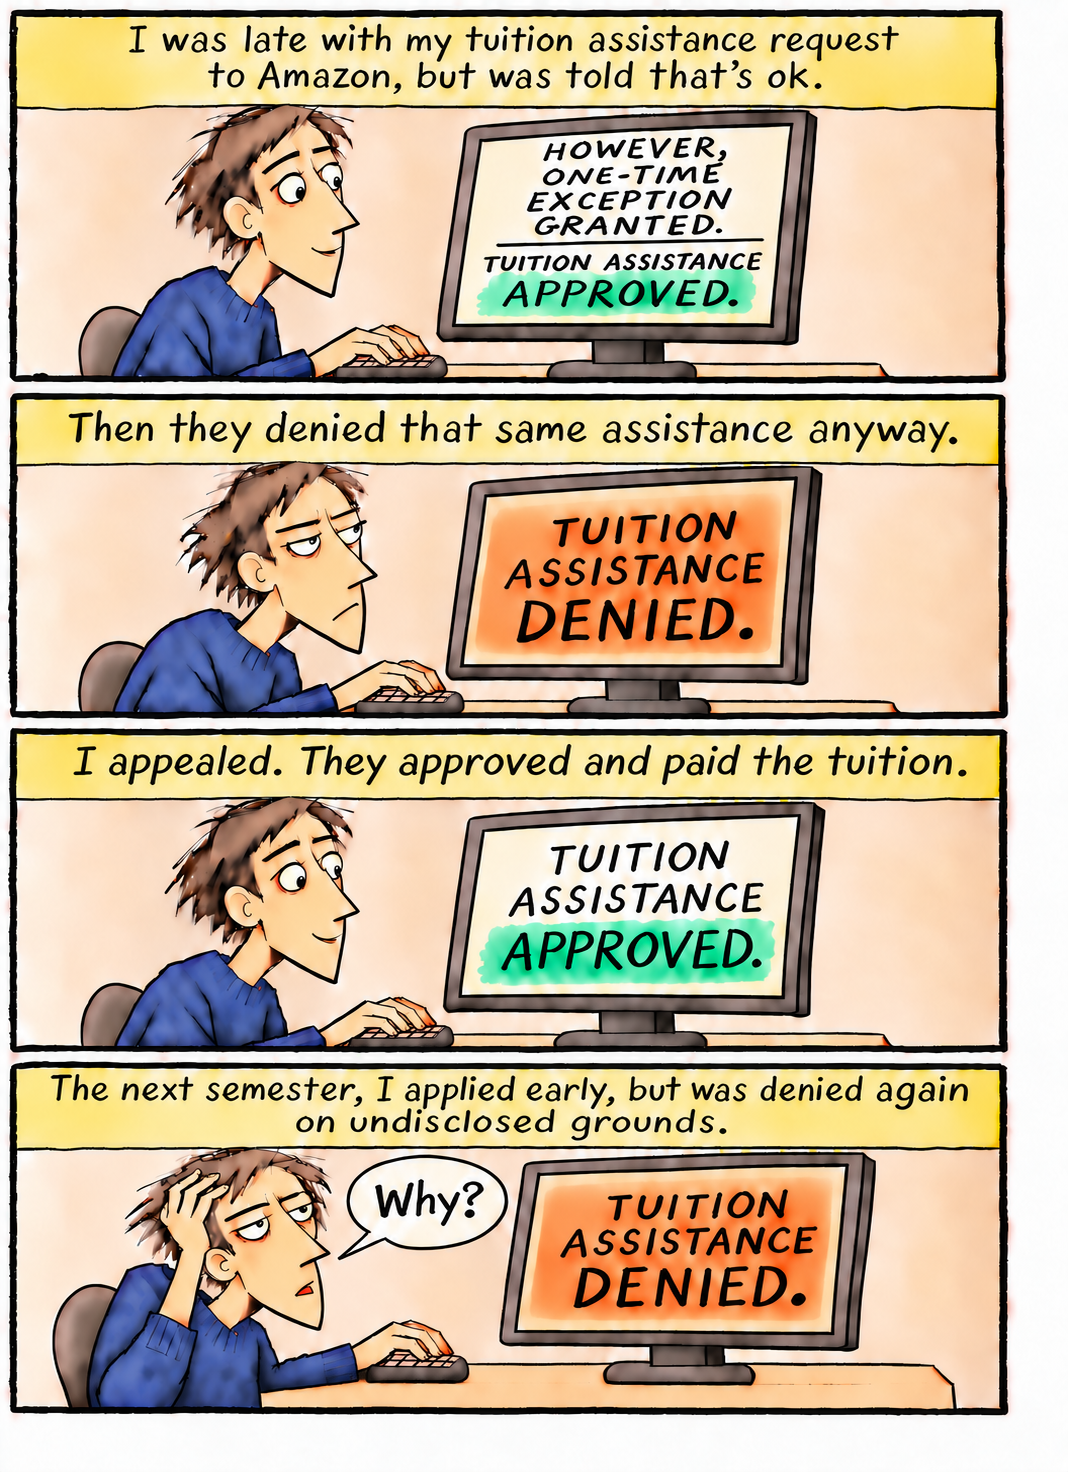
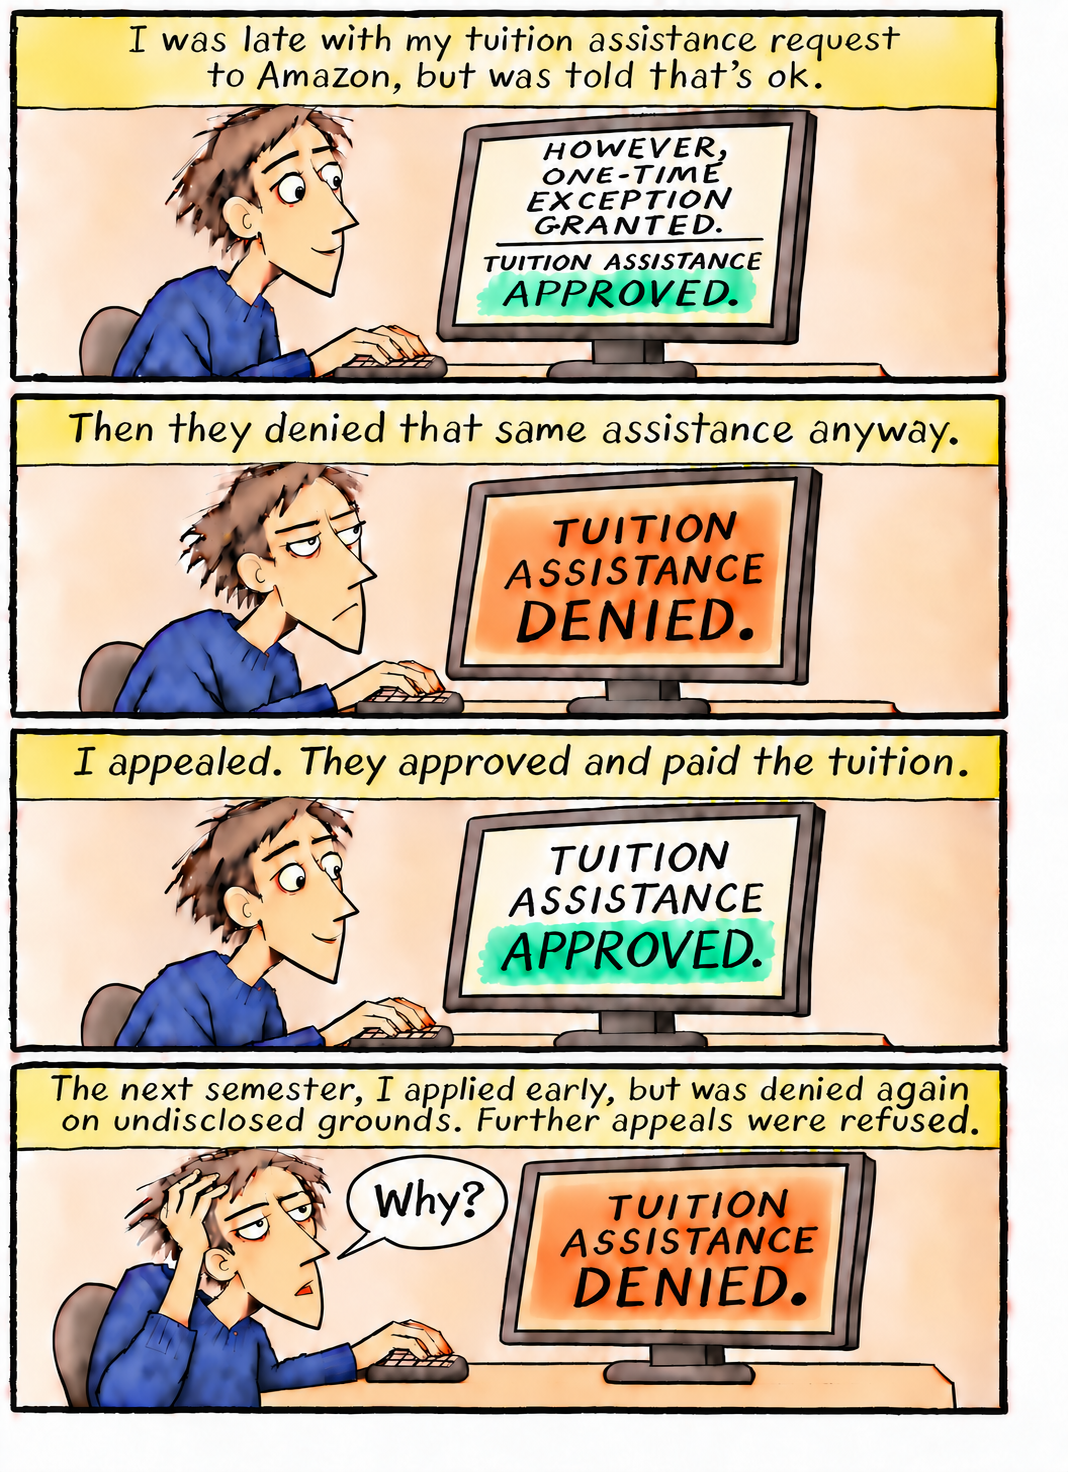
Update Amazon tuition comic appeal text

diff --git a/comics/amazon-tuition-assistance/index.html b/comics/amazon-tuition-assistance/index.html
@@ -10,7 +10,7 @@
     <meta property="og:site_name" content="Stealing Art Jobs" />
     <meta property="og:title" content="Someone entrusted with a position of authority at Amazon made this decision — Stealing Art Jobs" />
     <meta property="og:description" content="A four-panel comic about a hardworking Amazon warehouse employee whose tuition assistance is repeatedly approved and denied while he tries to become a nurse in Georgia." />
-    <meta property="og:image" content="https://stealingartjobs.com/comics/amazon-tuition-assistance.png?v=3" />
+    <meta property="og:image" content="https://stealingartjobs.com/comics/amazon-tuition-assistance.png?v=4" />
     <meta property="og:url" content="https://stealingartjobs.com/comics/amazon-tuition-assistance/" />
     <link rel="canonical" href="https://stealingartjobs.com/comics/amazon-tuition-assistance/" />
     <title>Someone entrusted with a position of authority at Amazon made this decision — Stealing Art Jobs</title>
@@ -19,7 +19,7 @@
     <link href="https://fonts.googleapis.com/css2?family=DM+Mono:wght@400;500&family=Manrope:wght@500;600;700;800&display=swap" rel="stylesheet" />
     <link rel="stylesheet" href="/styles.css?v=21" />
     <script type="application/ld+json">{"@context":"https://schema.org","@type":"WebSite","name":"Stealing Art Jobs","url":"https://stealingartjobs.com/","description":"An independent webcomic about art, work, technology, and strange incentives."}</script>
-    <script type="application/ld+json">{"@context": "https://schema.org", "@type": "CreativeWork", "name": "Someone entrusted with a position of authority at Amazon made this decision", "description": "A four-panel comic about a hardworking Amazon warehouse employee whose tuition assistance is repeatedly approved and denied while he tries to become a nurse in Georgia.", "datePublished": "2026-11-25", "image": "https://stealingartjobs.com/comics/amazon-tuition-assistance.png?v=3", "url": "https://stealingartjobs.com/comics/amazon-tuition-assistance/", "isPartOf": {"@type": "WebSite", "name": "Stealing Art Jobs", "url": "https://stealingartjobs.com/"}}</script>
+    <script type="application/ld+json">{"@context": "https://schema.org", "@type": "CreativeWork", "name": "Someone entrusted with a position of authority at Amazon made this decision", "description": "A four-panel comic about a hardworking Amazon warehouse employee whose tuition assistance is repeatedly approved and denied while he tries to become a nurse in Georgia.", "datePublished": "2026-11-25", "image": "https://stealingartjobs.com/comics/amazon-tuition-assistance.png?v=4", "url": "https://stealingartjobs.com/comics/amazon-tuition-assistance/", "isPartOf": {"@type": "WebSite", "name": "Stealing Art Jobs", "url": "https://stealingartjobs.com/"}}</script>
   </head>
   <body>
     <header class="site-header">
@@ -80,7 +80,7 @@
 
         <figure class="comic-frame" id="comic-frame">
           <button class="comic-arrow comic-arrow-previous" id="comic-previous" type="button" aria-label="Previous comic"><span aria-hidden="true">&lt;</span></button>
-          <img id="comic-image" src="/comics/amazon-tuition-assistance.png?v=3" alt="Four-panel comic showing an Amazon employee repeatedly receiving conflicting approvals and denials for tuition assistance." />
+          <img id="comic-image" src="/comics/amazon-tuition-assistance.png?v=4" alt="Four-panel comic showing an Amazon employee repeatedly receiving conflicting approvals and denials for tuition assistance." />
           <button class="comic-arrow comic-arrow-next" id="comic-next" type="button" aria-label="Next comic" disabled><span aria-hidden="true">&gt;</span></button>
         </figure>
 
@@ -100,7 +100,7 @@
             <p>Panel 1: The employee sits at a computer. The heading reads, ‘I was late with my tuition assistance request to Amazon, but was told that&#x27;s ok.’ His monitor says, ‘However, one-time exception granted. Tuition assistance approved.’</p>
             <p>Panel 2: The heading reads, ‘Then they denied that same assistance anyway.’ His monitor says, ‘Tuition assistance denied.’</p>
             <p>Panel 3: The heading reads, ‘I appealed. They approved and paid the tuition.’ His monitor says, ‘Tuition assistance approved.’</p>
-            <p>Panel 4: The heading reads, ‘The next semester, I applied early, but was denied again on undisclosed grounds.’ Holding his head, he asks, ‘Why?’ His monitor says, ‘Tuition assistance denied.’</p>
+            <p>Panel 4: The heading reads, ‘The next semester, I applied early, but was denied again on undisclosed grounds. Further appeals were refused.’ Holding his head, he asks, ‘Why?’ His monitor says, ‘Tuition assistance denied.’</p>
           </div>
         </details>
       </section>

diff --git a/index.html b/index.html
@@ -10,7 +10,7 @@
     <meta property="og:site_name" content="Stealing Art Jobs" />
     <meta property="og:title" content="Stealing Art Jobs" />
     <meta property="og:description" content="An independent webcomic about art, work, technology, and strange incentives." />
-    <meta property="og:image" content="https://stealingartjobs.com/comics/amazon-tuition-assistance.png?v=3" />
+    <meta property="og:image" content="https://stealingartjobs.com/comics/amazon-tuition-assistance.png?v=4" />
     <meta property="og:url" content="https://stealingartjobs.com/" />
     <link rel="canonical" href="https://stealingartjobs.com/" />
     <title>Stealing Art Jobs — Independent Webcomic</title>
@@ -79,7 +79,7 @@
 
         <figure class="comic-frame" id="comic-frame">
           <button class="comic-arrow comic-arrow-previous" id="comic-previous" type="button" aria-label="Previous comic"><span aria-hidden="true">&lt;</span></button>
-          <img id="comic-image" src="/comics/amazon-tuition-assistance.png?v=3" alt="Four-panel comic showing an Amazon employee repeatedly receiving conflicting approvals and denials for tuition assistance." />
+          <img id="comic-image" src="/comics/amazon-tuition-assistance.png?v=4" alt="Four-panel comic showing an Amazon employee repeatedly receiving conflicting approvals and denials for tuition assistance." />
           <button class="comic-arrow comic-arrow-next" id="comic-next" type="button" aria-label="Next comic" disabled><span aria-hidden="true">&gt;</span></button>
         </figure>
 
@@ -99,7 +99,7 @@
             <p>Panel 1: The employee sits at a computer. The heading reads, ‘I was late with my tuition assistance request to Amazon, but was told that&#x27;s ok.’ His monitor says, ‘However, one-time exception granted. Tuition assistance approved.’</p>
             <p>Panel 2: The heading reads, ‘Then they denied that same assistance anyway.’ His monitor says, ‘Tuition assistance denied.’</p>
             <p>Panel 3: The heading reads, ‘I appealed. They approved and paid the tuition.’ His monitor says, ‘Tuition assistance approved.’</p>
-            <p>Panel 4: The heading reads, ‘The next semester, I applied early, but was denied again on undisclosed grounds.’ Holding his head, he asks, ‘Why?’ His monitor says, ‘Tuition assistance denied.’</p>
+            <p>Panel 4: The heading reads, ‘The next semester, I applied early, but was denied again on undisclosed grounds. Further appeals were refused.’ Holding his head, he asks, ‘Why?’ His monitor says, ‘Tuition assistance denied.’</p>
           </div>
         </details>
       </section>
